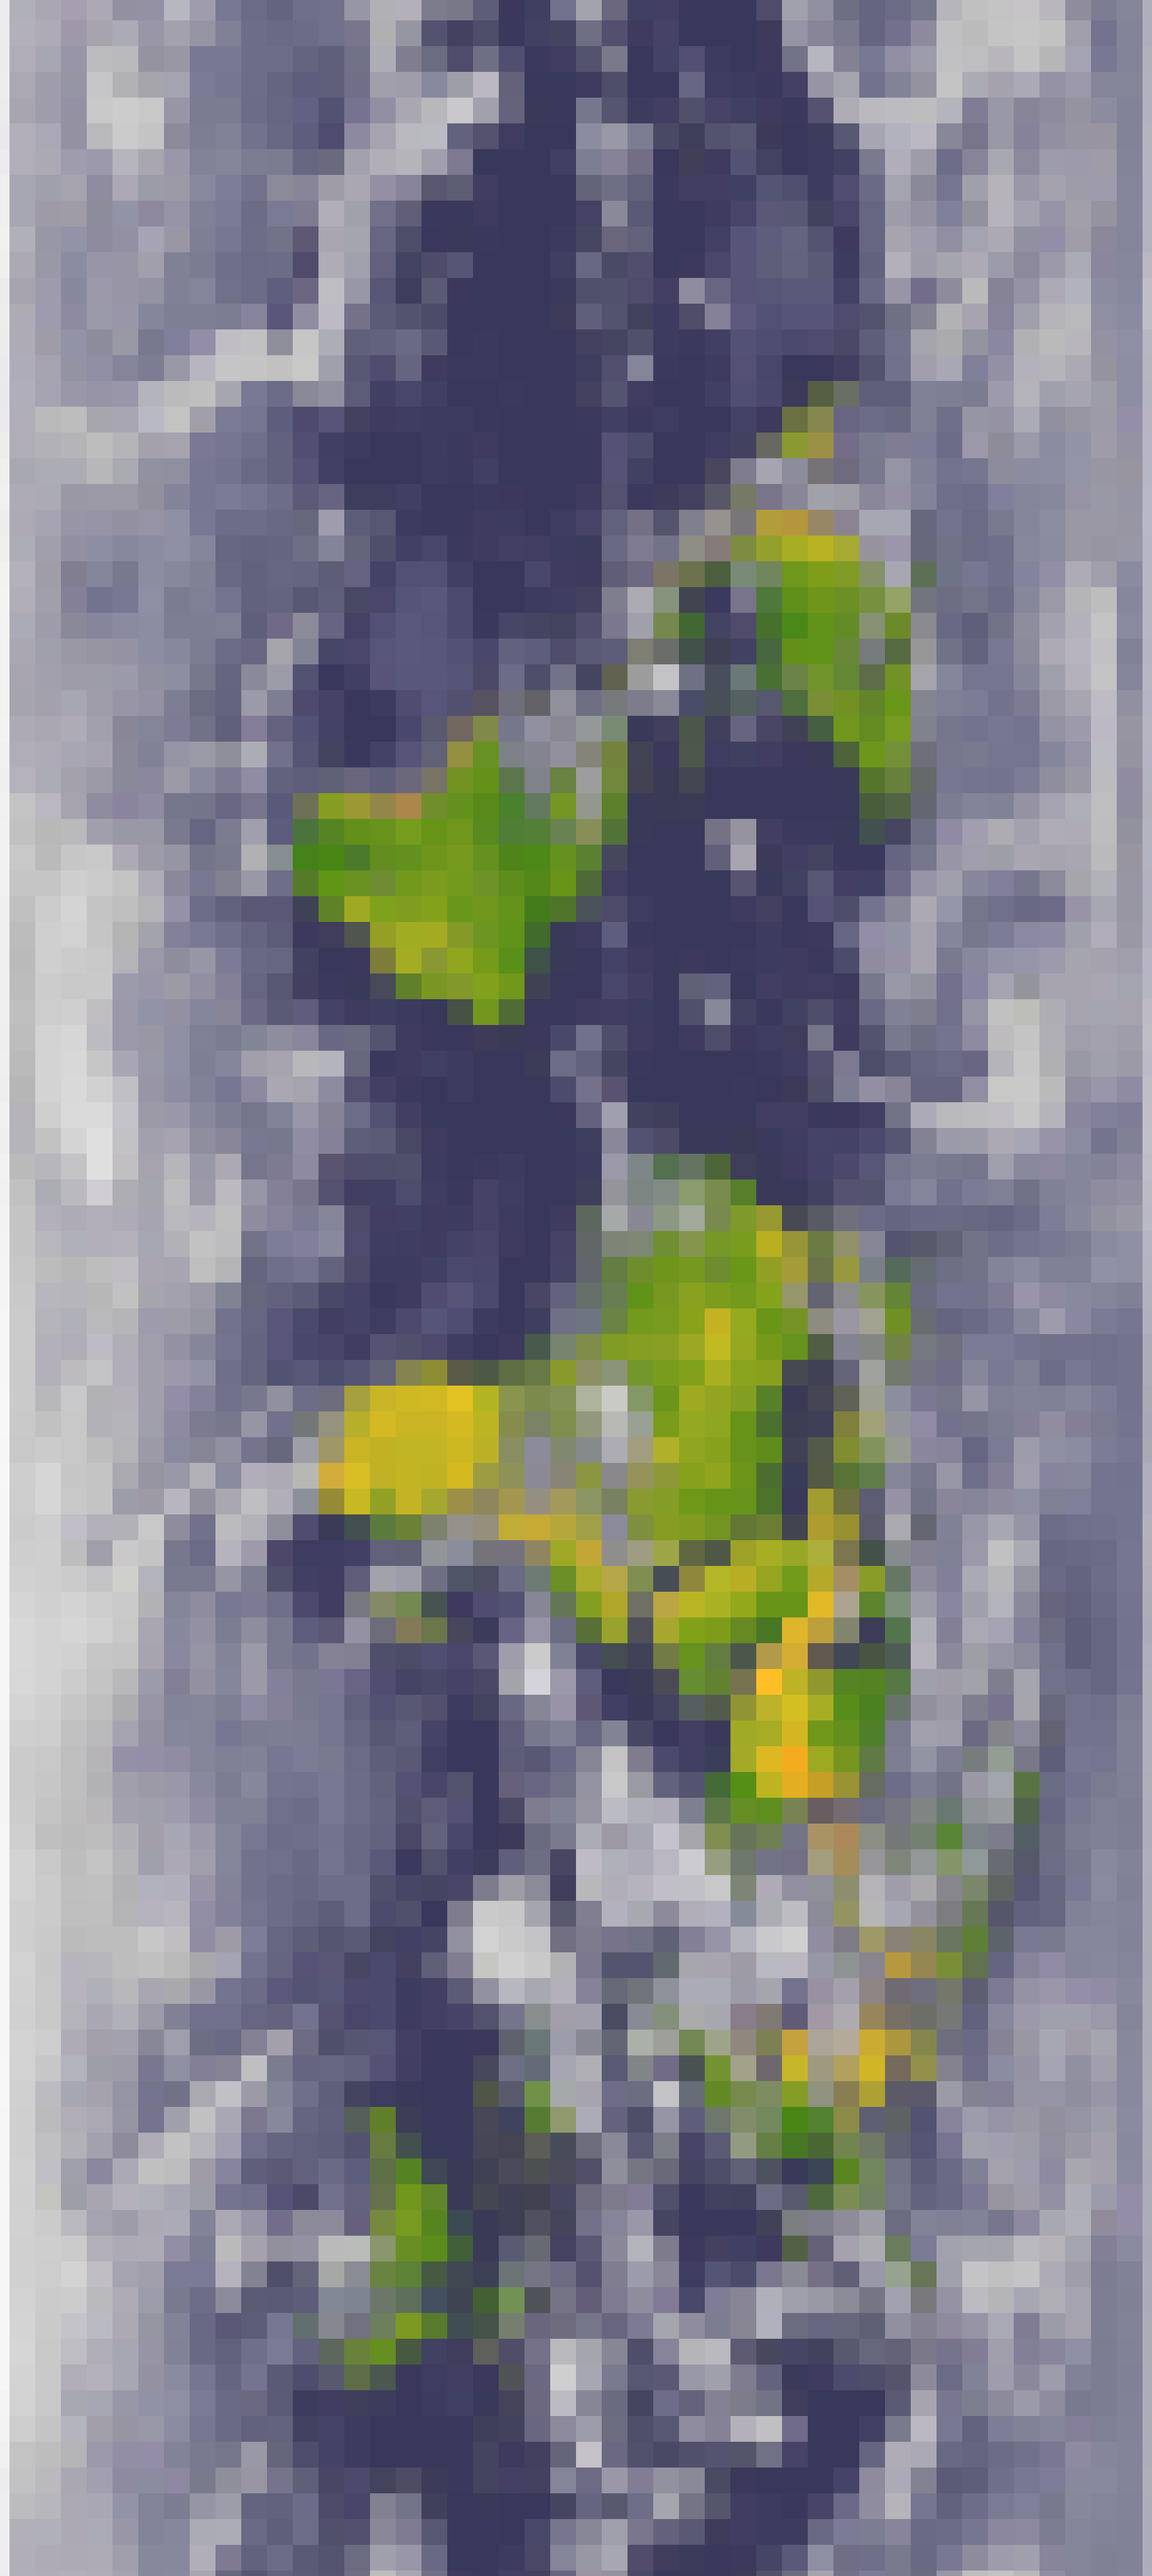
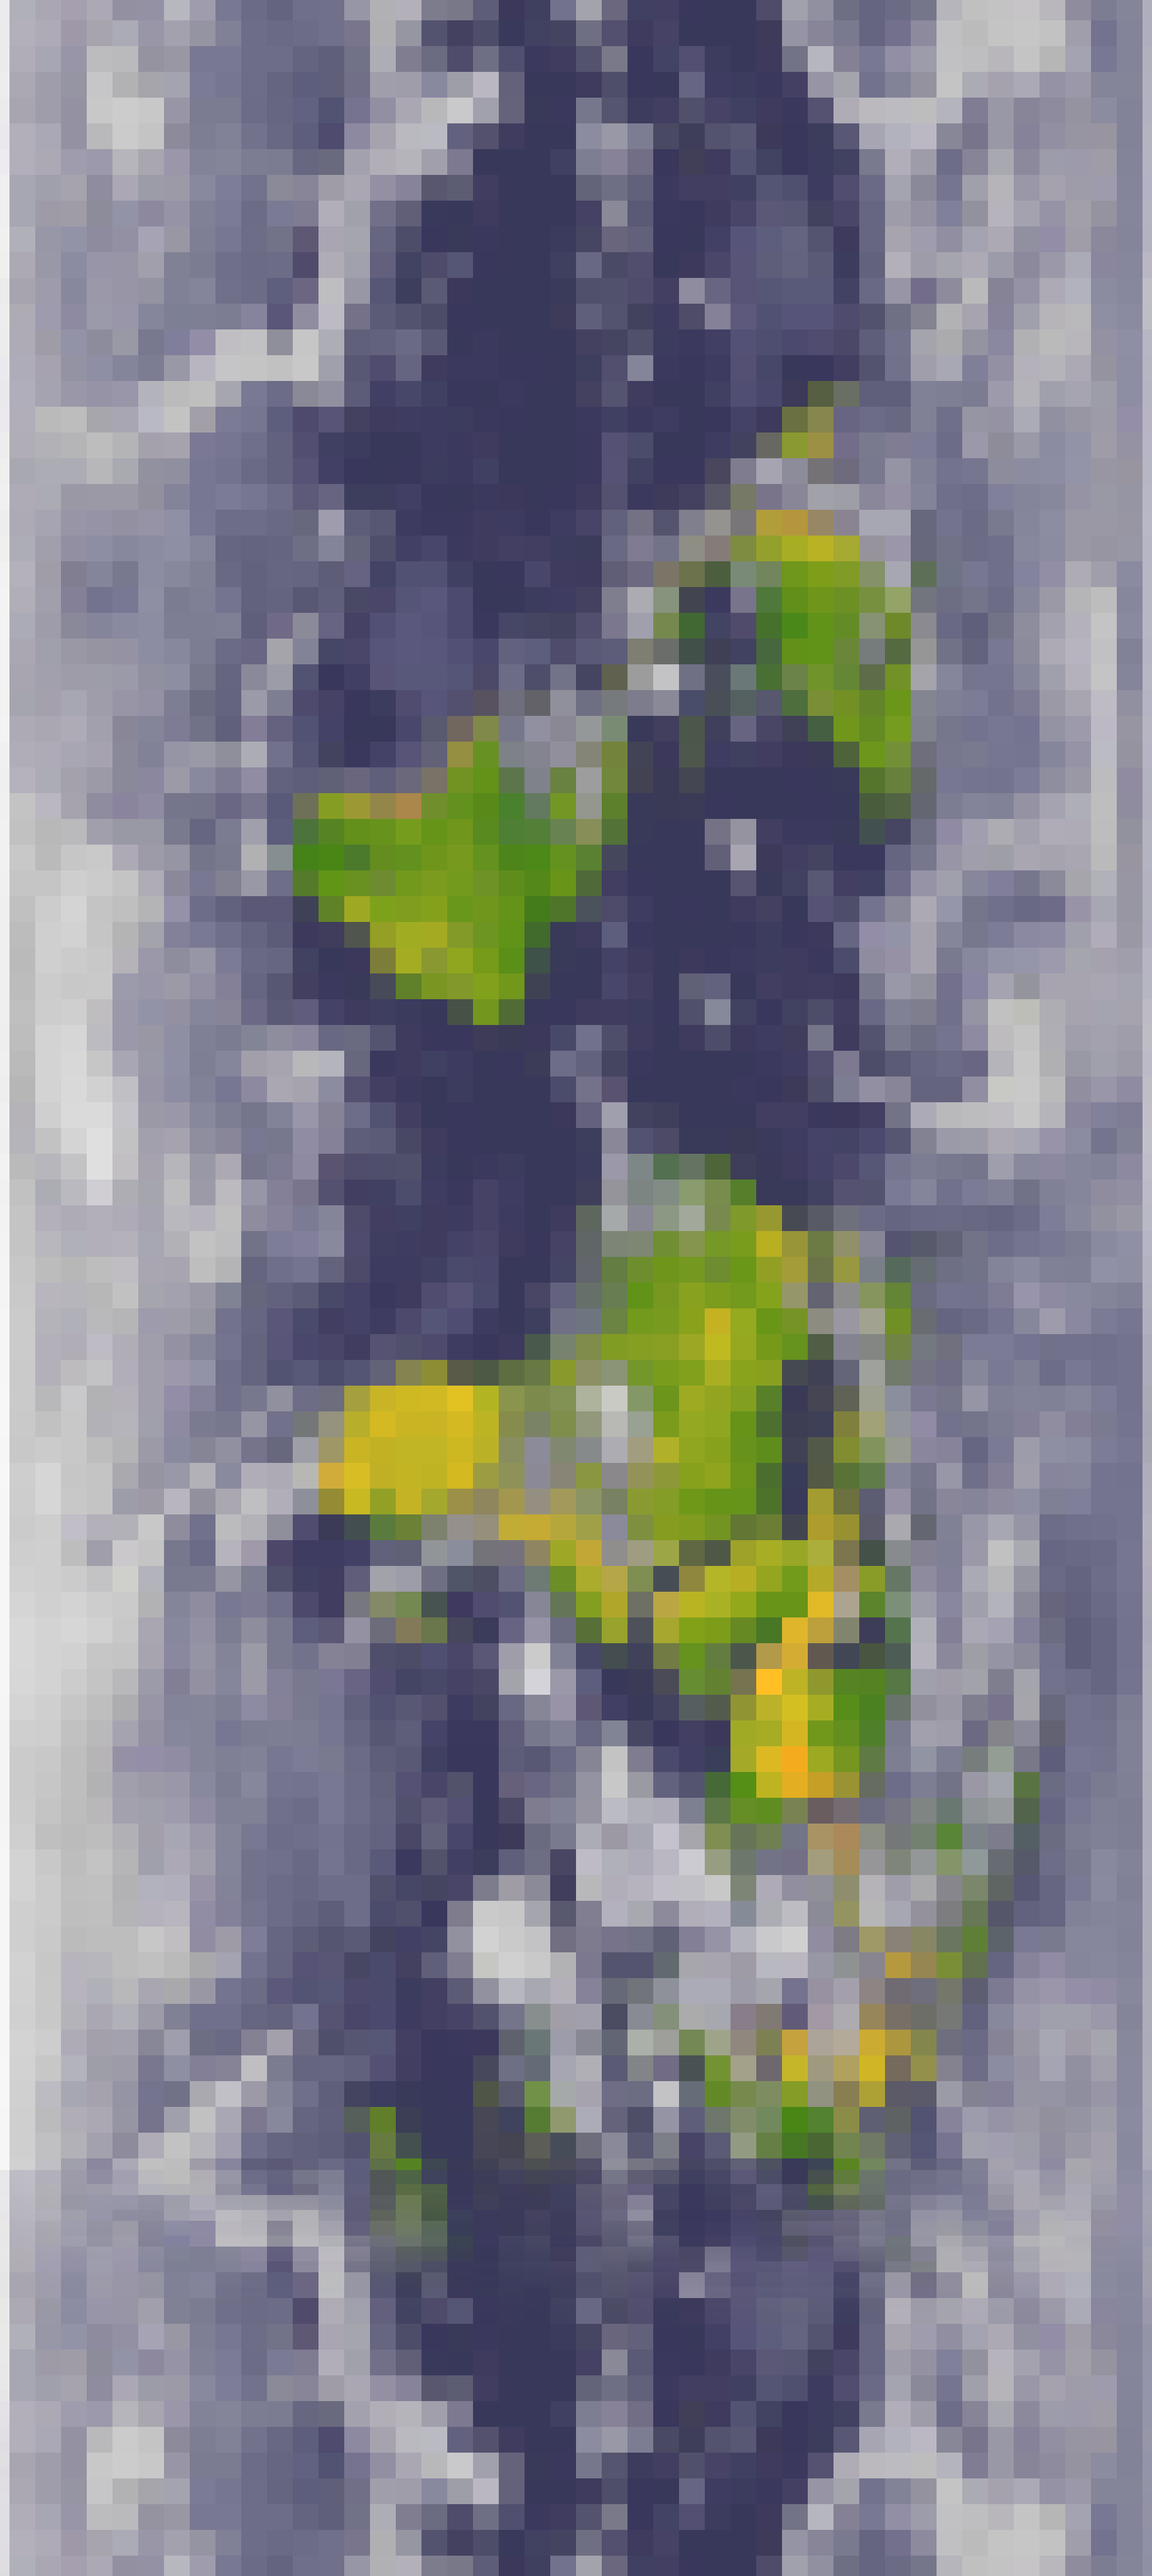
boucle earth pas parfaite mais pas mal

Changed region(s): [[0.0, 0.8384, 1.0, 1.0]]

diff --git a/SpaceInvader/background.c b/SpaceInvader/background.c
@@ -23,11 +23,11 @@ void DrawBackground(){
 }
 
 void UpdateBackground(){
-    if (Background->PositionEarth.y < 600)
+    if (Background->PositionEarth.y < SCREEN_HEIGHT - 200)
     {
         Background->PositionEarth.y += 1;
     }else{
-        Background->PositionEarth.y = 0;
+        Background->PositionEarth.y = -2061;
     }
 }
 
@@ -45,9 +45,9 @@ void InitBackground(){
     Background->PositionStar.h = SCREEN_HEIGHT;
 
     Background->PositionEarth.x = 0;
-    Background->PositionEarth.y = 0;
+    Background->PositionEarth.y = -2061;
     Background->PositionEarth.w = SCREEN_WIDTH;
-    Background->PositionEarth.h = SCREEN_HEIGHT;
+    Background->PositionEarth.h = 2861;
 
     Background->Load = LoadContentBackground;
     Background->UnLoad = UnLoadBackground;
